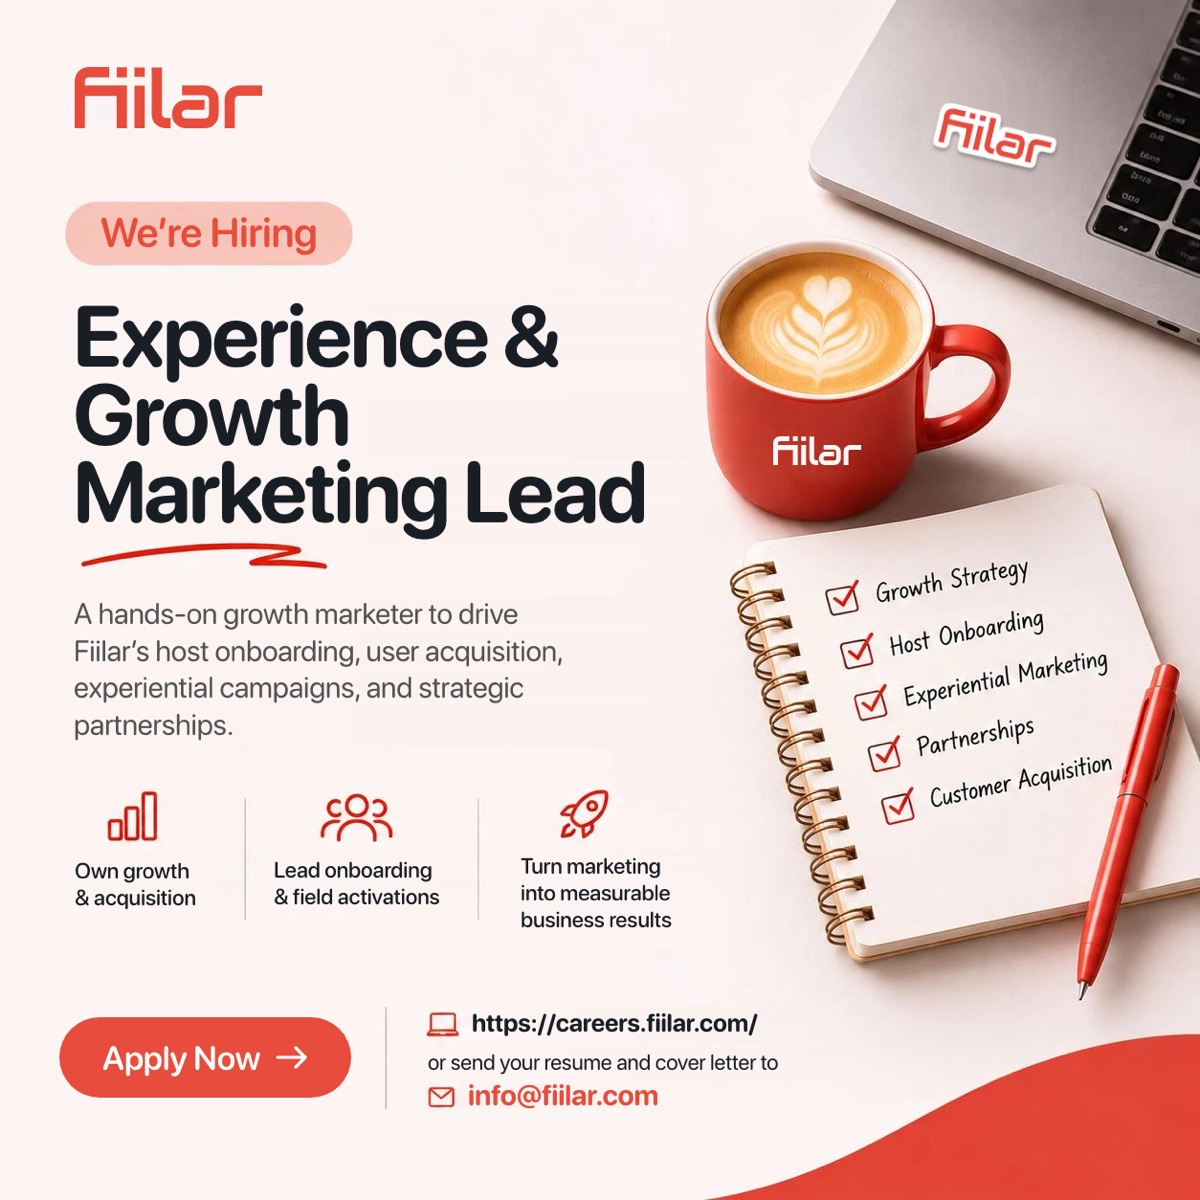
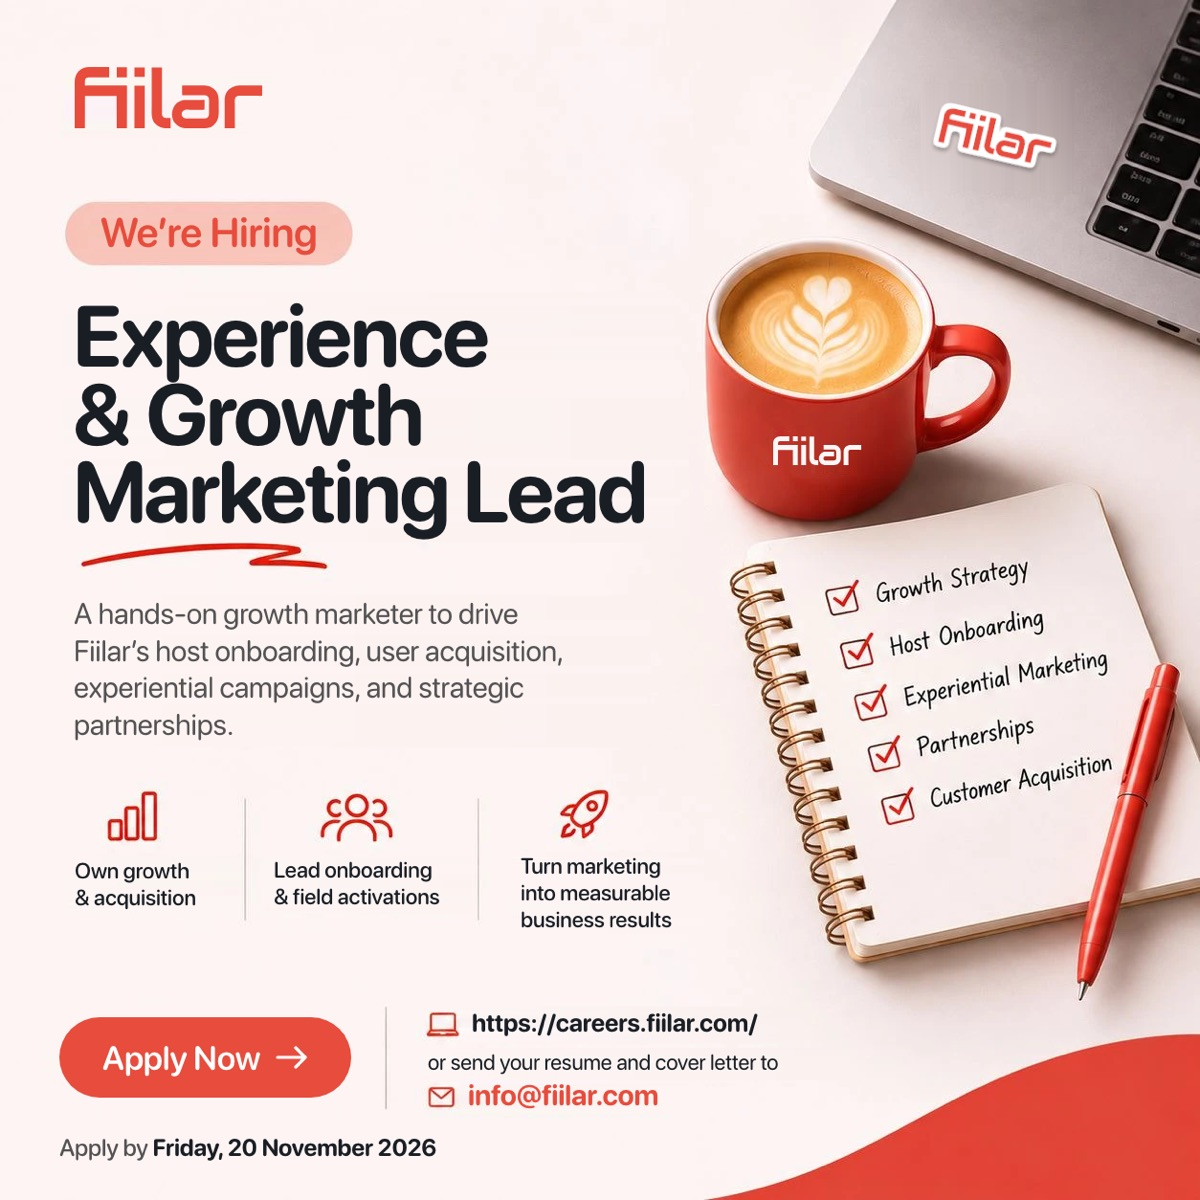
Show the Friday, 20 November 2026 closing date for the growth lead role (#3)
* Show the 30 November 2026 closing date for the growth lead role

A `closes` date on a role adds an "Apply by" chip on the list and the
role page, a line in the apply card, and the date in the share text.

* Close the growth lead role on Friday, 20 November 2026

* Refresh the share preview with the flyer that shows the deadline

---------

Changed region(s): [[0.0617, 0.3083, 0.37, 0.37], [0.0617, 0.925, 0.37, 0.9867], [0.4008, 0.2467, 0.4625, 0.3083]]

diff --git a/experience-growth-marketing-lead/index.html b/experience-growth-marketing-lead/index.html
@@ -6,10 +6,10 @@
   <meta name="viewport" content="width=device-width, initial-scale=1.0" />
   <title>Experience &amp; Growth Marketing Lead · Fiilar Careers (Lagos)</title>
   <link rel="icon" type="image/png" href="../logo-icon.png" />
-  <meta name="description" content="Fiilar is hiring an Experience &amp; Growth Marketing Lead in Lagos. Full-time, reporting to the CMO. Own and drive Fiilar's end-to-end growth and marketing strategy. Apply now." />
+  <meta name="description" content="Fiilar is hiring an Experience &amp; Growth Marketing Lead in Lagos. Full-time, reporting to the CMO. Own and drive Fiilar's end-to-end growth and marketing strategy. Apply by Friday, 20 November 2026." />
 
   <meta property="og:title" content="We're hiring: Experience &amp; Growth Marketing Lead at Fiilar" />
-  <meta property="og:description" content="Full-time · Lagos · Reports to the CMO. Own Fiilar's growth and marketing. Apply today." />
+  <meta property="og:description" content="Full-time · Lagos · Reports to the CMO. Own Fiilar's growth and marketing. Apply by Friday, 20 November 2026." />
   <meta property="og:type" content="website" />
   <meta property="og:url" content="https://careers.fiilar.com/experience-growth-marketing-lead/" />
   <meta property="og:image" content="https://careers.fiilar.com/experience-growth-marketing-lead/og.jpg" />
@@ -39,6 +39,7 @@
           <span class="chip">💼 Full-time</span>
           <span class="chip">📈 Growth &amp; Marketing</span>
           <span class="chip">👤 Reports to CMO</span>
+          <span class="chip">⏳ Apply by Friday, 20 November 2026</span>
         </div>
 
         <a class="cta" href="#apply">Apply now →</a>
@@ -198,6 +199,7 @@
         <div class="apply-card">
           <h2>Ready to join the team?</h2>
           <p><strong>If you are passionate about building brands, creating experiences, driving measurable growth, and turning ambitious ideas into business results, we would love to hear from you.</strong></p>
+          <p class="closes">Applications close Friday, 20 November 2026.</p>
 
           <div class="apply-methods">
             <div class="apply-row">

diff --git a/styles.css b/styles.css
@@ -83,6 +83,7 @@ ul.list li strong { font-weight: 700; }
   border-radius: var(--radius); padding: 32px 28px; margin-top: 8px;
 }
 .apply-card h2 { margin-bottom: 8px; }
+.apply-card .closes { margin-top: 12px; color: var(--ink); font-weight: 600; }
 .apply-methods { display: grid; gap: 14px; margin-top: 22px; }
 .apply-row { display: flex; align-items: center; gap: 14px; font-size: 16px; }
 .apply-row .ic {

diff --git a/index.html b/index.html
@@ -42,6 +42,7 @@
               <span class="chip">💼 Full-time</span>
               <span class="chip">📈 Growth &amp; Marketing</span>
               <span class="chip">👤 Reports to CMO</span>
+              <span class="chip">⏳ Apply by Friday, 20 November 2026</span>
             </div>
             <span class="more">View role →</span>
           </a>
